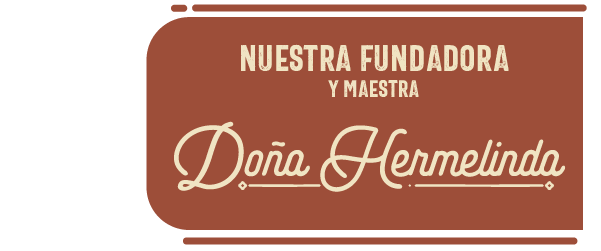
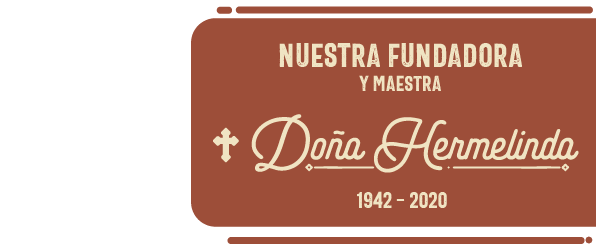
last changes

Changed region(s): [[0.2396, 0.0, 1.0, 0.9761], [0.3894, 0.1673, 0.8686, 0.3904]]

diff --git a/index.html b/index.html
@@ -1,6 +1,5 @@
 <!DOCTYPE html>
 <html>
-
 <head>
     <!-- Google Tag Manager -->
     <script>(function (w, d, s, l, i) {
@@ -14,10 +13,10 @@
     <!-- End Google Tag Manager -->
     <meta charset="utf-8" />
     <meta name="viewport" content="width=device-width, initial-scale=1.0" />
-    <script src="https://cdnjs.cloudflare.com/ajax/libs/Chart.js/3.7.1/chart.js"></script>
+    <!-- <script src="https://cdnjs.cloudflare.com/ajax/libs/Chart.js/3.7.1/chart.js"></script> -->
     <title>Tradición Arequipeña</title>
-    <link rel="stylesheet" href="https://kit.fontawesome.com/4f90f77d84.css" crossorigin="anonymous">
-    <link rel="stylesheet" href="https://cdn.jsdelivr.net/npm/swiper@9/swiper-bundle.min.css" />
+    <!-- <link rel="stylesheet" href="https://kit.fontawesome.com/4f90f77d84.css" crossorigin="anonymous">
+    <link rel="stylesheet" href="https://cdn.jsdelivr.net/npm/swiper@9/swiper-bundle.min.css" /> -->
     <link href="./src/hamburger.css" rel="stylesheet">
     <link rel="stylesheet" href="./src/style.css" />
 </head>
@@ -371,84 +370,6 @@
                 Liberte</a>
         </p>
     </footer>
-    <!-- <section id="contacto">
-    <div class="seccarta3">
-      <div class="textocarta">
-        <div class="divtextual">
-          <p class="studio" style="color:#e3d7b2">Siguenos en:</p>
-        </div>
-        <div class="site-links">
-          <a class="textosub2" href="https://www.instagram.com/tradicionarequipena/" target="_blank"><i
-              class="fab fa-instagram-square text"></i>@tradicionarequipena</a>
-          <a class="textosub2" href="https://www.facebook.com/latradi" target="_blank"><i
-              class="fab fa-facebook text"></i> @latradi</a>
-        </div>
-      </div>
-      <div class="imgdiv">
-        <div>
-          <div class="divtextual">
-            <p class="studio" style="color:#e3d7b2">Contáctanos</p>
-          </div>
-          <div id="iconosub">
-            <div class="contactos">
-              <a target="_blank"
-                href="https://www.google.com/maps/uv?pb=!1s0x91424b5316d6b3d7%3A0xe05fe5c39226e28f!3m1!7e115!4s%2Fmaps%2Fplace%2Flos%2Bnieto%2Bpolleria%2F%40-16.4174561%2C-71.527002%2C3a%2C75y%2C227.98h%2C90t%2Fdata%3D*213m4*211e1*213m2*211sJJ2D08VzvS24w-bKMY-ngA*212e0*214m2*213m1*211s0x91424b5316d6b3d7%3A0xe05fe5c39226e28f%3Fsa%3DX!5slos%20nieto%20polleria%20-%20Buscar%20con%20Google!15sCgIgAQ&imagekey=!1e2!2sJJ2D08VzvS24w-bKMY-ngA&hl=es&sa=X&ved=2ahUKEwjV9db5kab5AhVSBrkGHb__DHoQpx96BAg0EAg"
-                class="contactos"><i class="fa fa-phone icon text"></i>
-                <p class="textosub2" style="padding-top:10px ;"> 054 - 426 467</p>
-              </a>
-            </div>
-            <div class="contactos">
-              <a href="#" class="contactos"><i class="fa fa-phone icon text"></i>
-                <p class="textosub2" style="padding-top:10px ;">948 765 748</p>
-              </a>
-            </div>
-            <div class="contactos">
-              <a href="https://www.facebook.com/LosNietoPolleria" target="_blank" class="contactos"><i
-                  class="fa fa-phone icon text"></i>
-                <p class="textosub2" style="padding-top:10px ;"> 054 - 399 791</p>
-              </a>
-            </div>
-          </div>
-        </div>
-      </div>
-    </div> 
-  </section> -->
-
-    <!-- <footer>
-    <div class="footercontent">
-      <div>
-        <img src="./src/img/msg-footer.png" />
-      </div>
-      <div class="enlaces">
-        <p class="subtitulo" style="padding: 15px 5px;">
-          Enlaces Importantes
-        </p>
-        <ul style="list-style: none;">
-          <li style="margin: 5px;">
-            <a class="textosub2" href="#pollos">PLATOS</a>
-          </li>
-          <li style="margin: 5px;">
-            <a class="textosub2" href="#carta">CARTA</a>
-          </li>
-          <li style="margin: 5px;">
-            <a class="textosub2" href="#promociones">PROMOCIONES</a>
-          </li>
-          <li style="margin: 5px;">
-            <a class="textosub2" href="#ubicacion">CONTACTO</a>
-          </li>
-        </ul>
-      </div>
-      <div>
-        <img src="./src/img/logo-footer.png" />
-      </div>
-    </div>
-    <div class="foot">
-      <h6 class="copy">© 2020 <a href="https://www.libertemarketing.com/">Agencia de Marketing Liberte.</a> Todos los
-        derechos reservados.</h6>
-    </div>
-  </footer> -->
-
-    <!-- Meta Pixel Code -->
     <script>
         !function (f, b, e, v, n, t, s) {
             if (f.fbq) return; n = f.fbq = function () {
@@ -487,7 +408,6 @@
             src="https://www.facebook.com/tr?id=185705986514013&ev=PageView&noscript=1" /></noscript>
     <!-- End Meta Pixel Code -->
     <script src="https://kit.fontawesome.com/4f90f77d84.js" crossorigin="anonymous"></script>
-    <script src="https://cdn.jsdelivr.net/npm/swiper@9/swiper-bundle.min.js"></script>
     <script src="./src/main.js"></script>
 </body>
 

diff --git a/src/style.css b/src/style.css
@@ -84,7 +84,7 @@ body {
 /* solo para ver el texto hasta que lo acomode */
 /*Estilo para el header de todas las páginas */
 header {
-  background: rgba(233, 215, 177, 0.7);
+  background: rgba(233, 215, 177, 0.7);;
   /* background: #e5d7b1ac; */
   position: fixed;
   width: 100%;
@@ -138,8 +138,8 @@ a {
   border: none;
   transition: all 0.4s ease-in-out;
 }
-.btn-pidelo2:hover{
-  box-shadow: 10px 10px rgba(0,0,0,0.3);
+.btn-pidelo2:hover {
+  box-shadow: 10px 10px rgba(0, 0, 0, 0.3);
 }
 .btn-pidelo2 a {
   color: #b52f22;
@@ -217,7 +217,7 @@ a {
   font-weight: 300;
   font-size: 9vw;
   padding: 0 0 0 10vw;
-  color: #ecdfb8;
+  color: #ba4d3a;
   z-index: 100;
   margin: 10vh 0 0 0;
 }
@@ -433,7 +433,7 @@ footer p {
   color: #8e412f;
   font-weight: 100;
 }
-.liberte-link{
+.liberte-link {
   font-weight: bold;
   color: #8e412f;
 }
@@ -538,7 +538,7 @@ footer p {
 }
 
 #carta1 {
-  background-image: url(img/fondo-carta-test-1.jpg);
+  background-image: url(img/Mesa\ de\ trabajo\ 3-100.jpg);
   background-size: contain;
   justify-content: center;
   /* padding: 0px 30px; */
@@ -934,8 +934,8 @@ footer p {
 }
 .plattext {
   z-index: 100 !important;
-  background-color: #eadeb9;
-  color: #ab2016;
+  background-color: rgba(157, 78, 57, 0.98);
+  color: #f0e4c3;
   font-weight: 300;
   border-radius: 25px;
   padding: 1.5vh 3vw;
@@ -947,8 +947,8 @@ footer p {
   z-index: 100 !important;
   left: 15%;
   width: 30vw;
-  background-color: #eadeb9;
-  color: #ab2016;
+  background-color: rgba(157, 78, 57, 0.98);
+  color: #f0e4c3;
   border-radius: 25px;
   position: 5px 10px;
   padding: 3vh 3vw;
@@ -960,7 +960,7 @@ footer p {
   font-size: 2vw;
   text-align: center;
   margin: 5vh auto 10px auto;
-  color: #8e412f;
+  color: #ddb487;
 }
 .comida {
   display: flex;
@@ -1614,7 +1614,6 @@ footer p {
     font-weight: 300;
     font-size: 7rem;
     padding: 20px;
-    color: #ecdfb8;
     z-index: 100;
   }
   .spicy-img img {
@@ -1885,10 +1884,10 @@ footer p {
     height: 10vh;
     padding: 0 4vw 0 4vw;
   }
- .nav{
-  height: 10vh;
-  justify-content: space-between;
- }
+  .nav {
+    height: 10vh;
+    justify-content: space-between;
+  }
   #carousel {
     justify-content: center;
   }
@@ -1909,7 +1908,7 @@ footer p {
     font-size: 5vw;
     line-height: 5vh;
   }
-  .textdebil{
+  .textdebil {
     font-size: 5vw;
   }
   .imgcombo {

diff --git a/src/main.js b/src/main.js
@@ -20,10 +20,6 @@ if (windowWidth <= 1023) {
       total = $slides.length,
       $next = d.querySelector("#flechaDerecha3"),
       $prev = d.querySelector("#flechaIzquierda3");
-    /****************************************Delete White Space Movil Devices*/
-    // select the node containing the UI navigation elements for callback function closure
-
-    /********************************************************************** */
 
     showSlide(1);
     $next.addEventListener("click", (e) => {
@@ -58,21 +54,12 @@ if (windowWidth > 1024) {
     const flechaIzq3 = document.querySelector("#flechaIzquierda3");
     const flechaDer3 = document.querySelector("#flechaDerecha3");
     flechaDer3.addEventListener("click", () => {
-      carrusel3.scrollLeft += carrusel3.offsetWidth;
+      carrusel3.scrollLeft += carrusel3.offsetWidth/2.5;
     });
     flechaIzq3.addEventListener("click", () => {
-      carrusel3.scrollLeft -= carrusel3.offsetWidth;
+      carrusel3.scrollLeft -= carrusel3.offsetWidth/2.5;
     });
   });
 };
-
-d.addEventListener("DOMContentLoaded", function () {
-  function reorient(e) {
-    var portrait = (window.orientation % 180 == 0);
-    $("body > div").css("-webkit-transform", !portrait ? "rotate(-90deg)" : "");
-  }
-  window.onorientationchange = reorient;
-  window.setTimeout(reorient, 0);
-});
 
 
